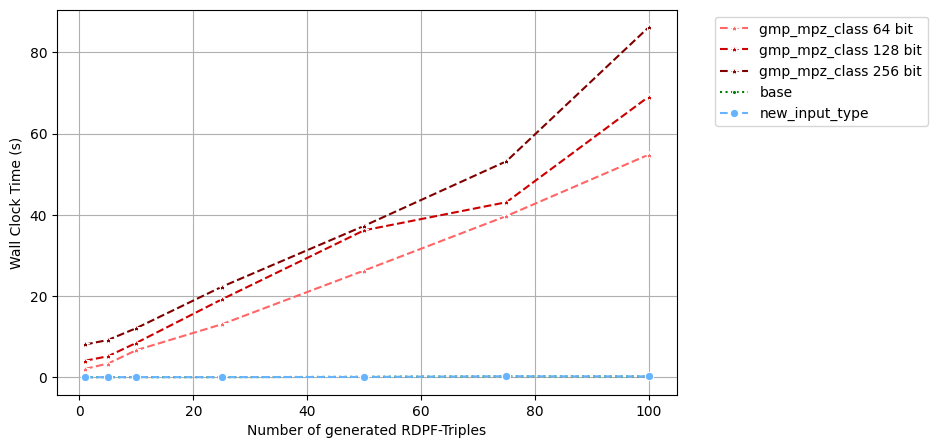
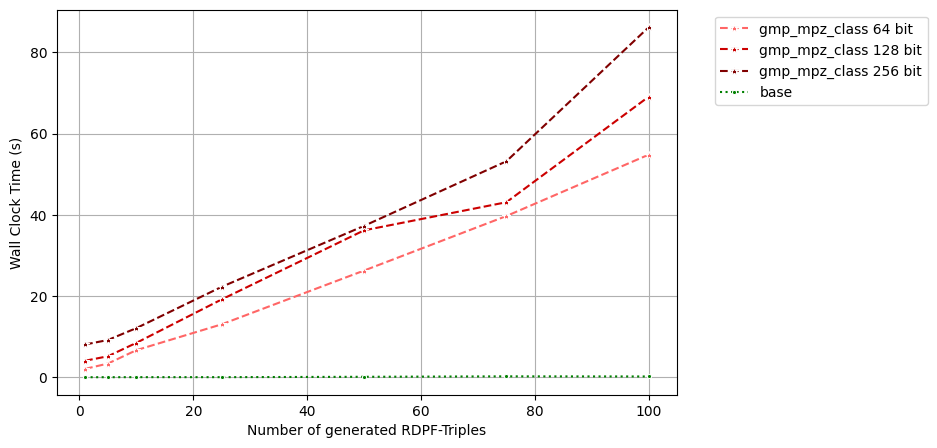
wct incnum preproc nit gelöscht da gleich mit base

diff --git a/plots/code/preproc/wall_clock_incnum_preproc.py b/plots/code/preproc/wall_clock_incnum_preproc.py
@@ -36,11 +36,6 @@ df_base = pd.DataFrame({
     "Approach":"base"
 })
 
-df_new_input_type = pd.DataFrame({
-    "x":[x1,x2,x3,x4,x5,x6,x7],
-    "y":[0.05,0.049,0.061,0.063,0.11,0.28,0.25],
-    "Approach":"new_input_type"
-})
 
 plt.figure(figsize=(8,5))
 
@@ -49,8 +44,6 @@ sns.lineplot(data=df_mpz_128, x="x", y="y", hue="Approach", marker="*", linestyl
 sns.lineplot(data=df_mpz_256, x="x", y="y", hue="Approach", marker="*", linestyle="dashed", palette=["#800000"])
 
 sns.lineplot(data=df_base, x="x", y="y", hue="Approach", marker=".", linestyle="dotted", palette=["Green"])
-
-sns.lineplot(data=df_new_input_type, x="x", y="y", hue="Approach", marker="o", linestyle="dashed", palette=["#66b3ff"])
 
 plt.legend(bbox_to_anchor=(1.05, 1), loc='upper left')
 sns.set_style("ticks")
